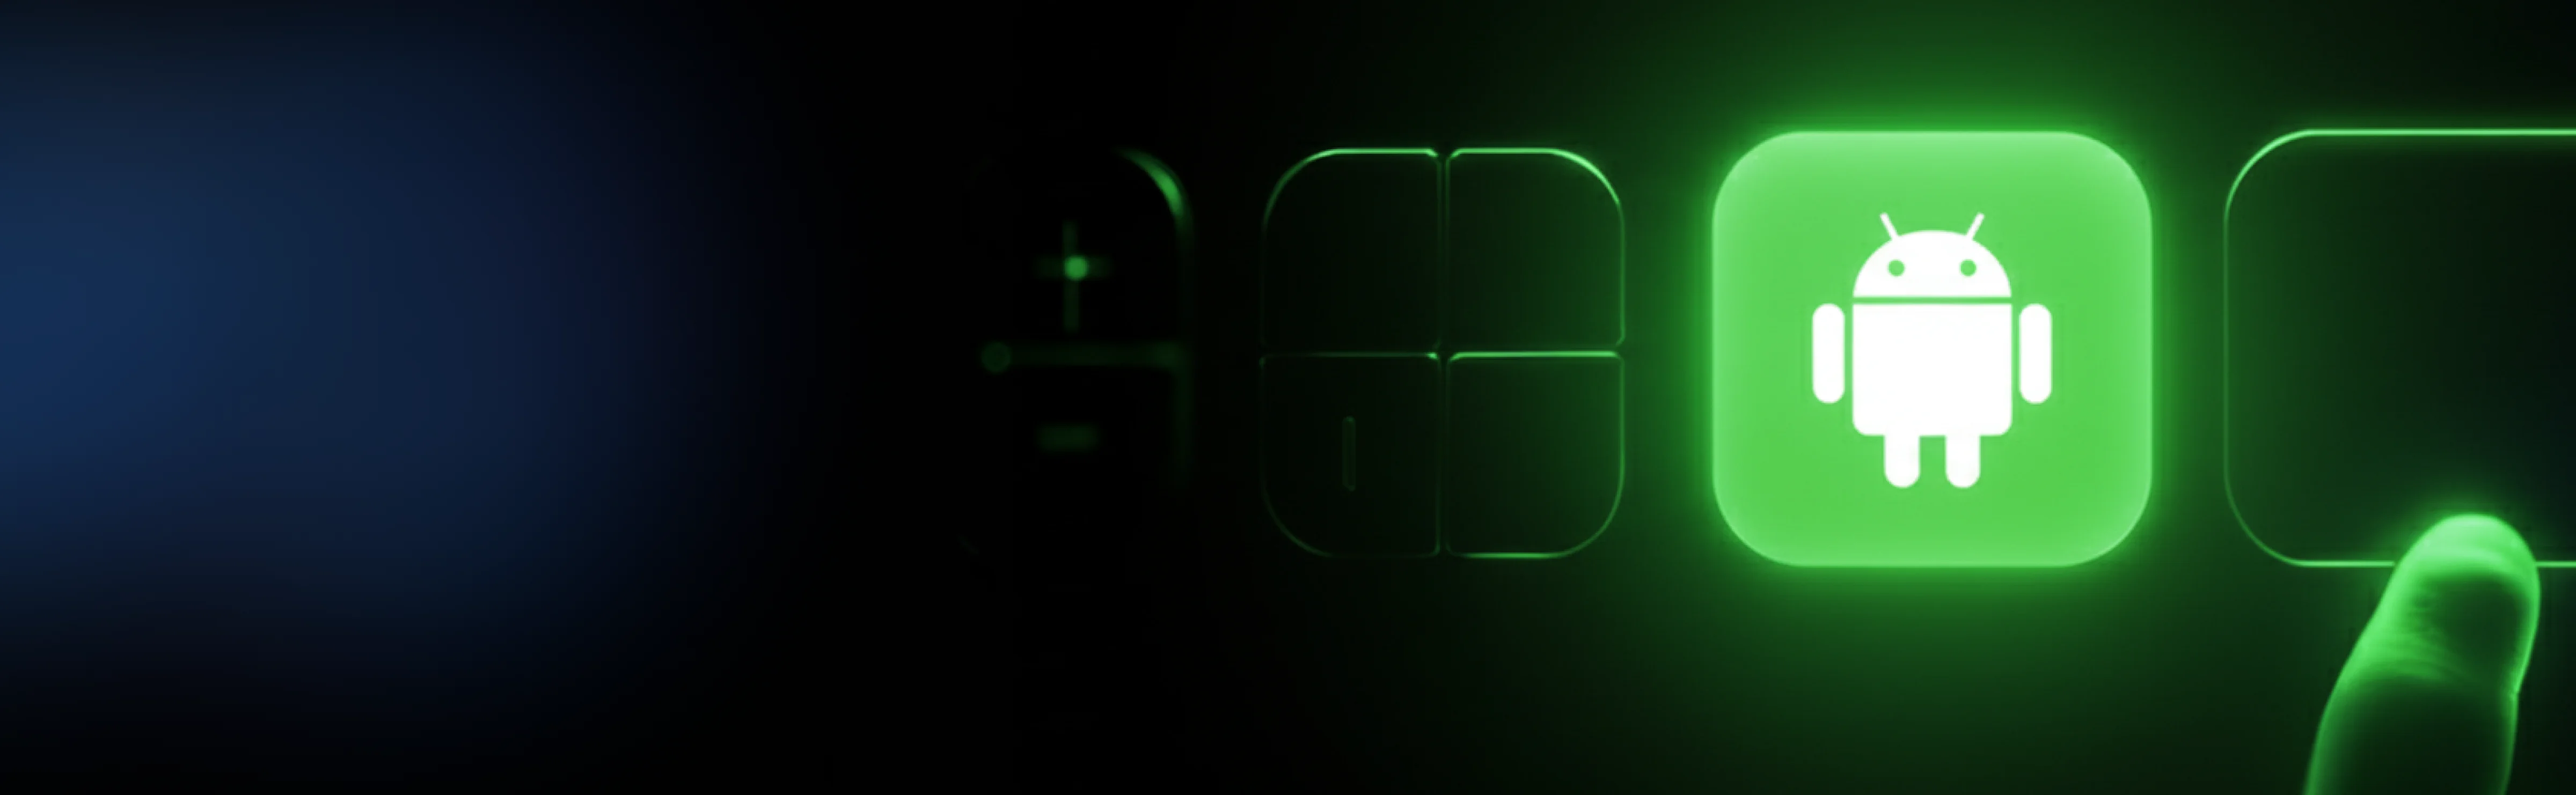
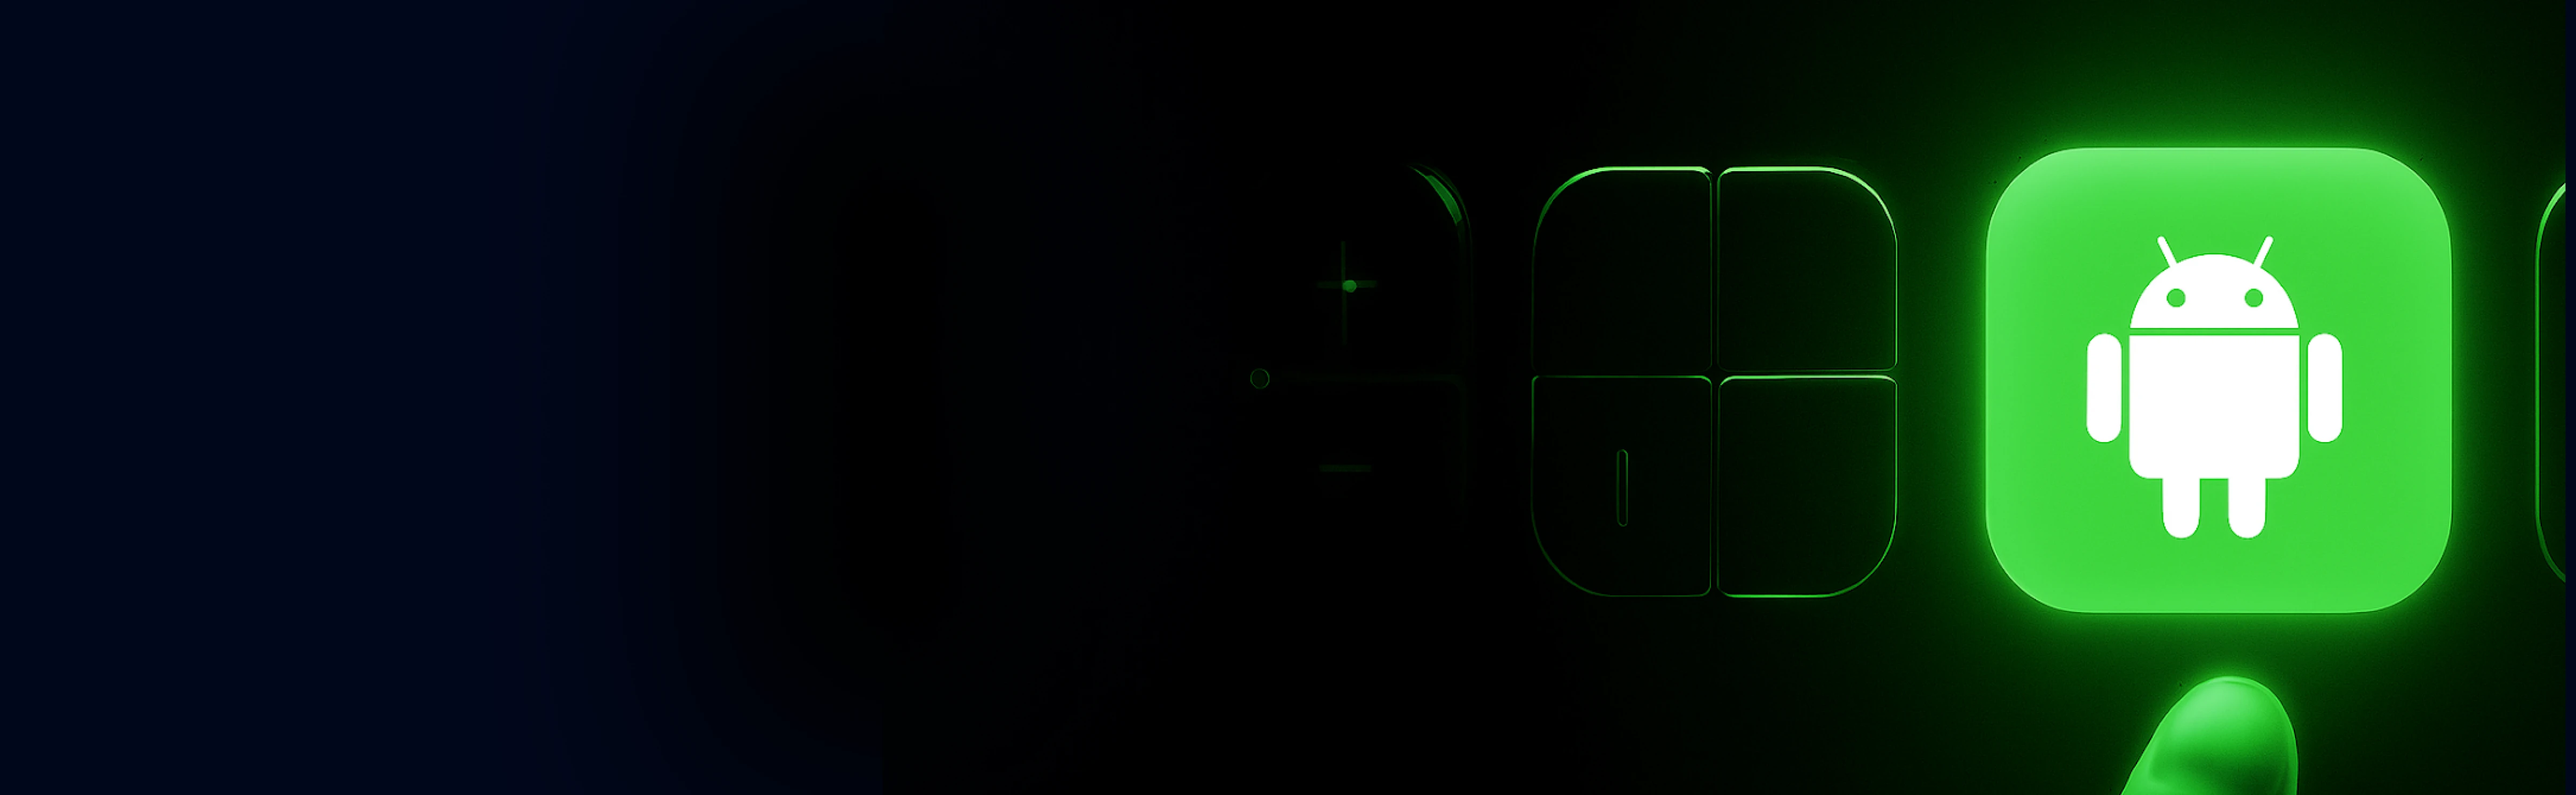
fixes

diff --git a/src/custom-android-app.html b/src/custom-android-app.html
@@ -1112,12 +1112,12 @@
         class="relative w-full xl:mt-[170px] z-50 recognition-section-ppc backdrop-blur-[10px]"
       >
         <div
-          class="container relative flex flex-col lg:flex-row items-center justify-between gap-2 lg:gap-8 px-6 md:px-12 py-5"
+          class=" relative flex flex-col lg:flex-row items-center justify-between gap-2 lg:gap-8 px-6 md:px-12 py-5"
         >
           <!-- Left text -->
-          <div class="lg:w-[40%] text-center lg:text-left">
+          <div class="lg:w-[40%] text-center lg:text-left px-5">
             <p
-              class="text-white text-base text-[16px] md:text-[18px] leading-snug"
+              class="text-white text-base text-[16px] md:text-[18px] leading-relaxed"
             >
               Recognized for delivering the best solutions for businesses of all
               sizes and across industries.
@@ -1248,14 +1248,14 @@
             href="#"
             class="border-[1px] border-[#f5fafec8] rounded-full px-6 py-3 text-[18px] font-medium text-[#F5FAFE] hover:bg-white/10 transition inline-flex items-center"
           >
-            <span class="truncate max-w-[200px] sm:max-w-none">Explore Our Android Development Services</span>
+            <span class="truncate max-w-[280px] sm:max-w-none">Explore Our Android Development Services</span>
           </a>
         </div>
       </div>
     </section>
 
     <!-- 🟦 SECTION 2: Comprehensive Golang Development Services -->
-    <section class="text-white lg:pt-20 text-center px-4">
+    <section class="text-white lg:pt-20 text-center px-4  ">
       <div class="container mx-auto max-w-4xl">
         <h2
           class="text-3xl md:text-4xl xl:text-[50px] font-[400] mb-6 xl:leading-[60px] w-[90%] mx-auto"
@@ -1292,7 +1292,7 @@
       </div>
 
       <section class="text-white py-20 hidden lg:block">
-        <div class="mx-auto px-4 flex flex-col lg:flex-row gap-10">
+        <div class="mx-auto  flex flex-col lg:flex-row gap-10">
           <!-- LEFT SIDE: Scrollable Category List -->
           <div class="lg:w-1/2 bg-[#121314]">
             <div
@@ -2389,10 +2389,10 @@
       </section>
     </div>
     <!-- 🟦 SECTION 2: Why Choose NewAgeSysIT -->
-    <section class="relative text-white overflow-hidden border-new-golang">
+    <section class="relative text-white overflow-hidden border-new-golang min-h-[450px]">
       <div class="absolute right-0 top-0 hidden w-full h-full lg:block">
         <img
-          src="./img/cta-android-web.png"
+          src="./img/cta-android-web.webp"
           alt="bg"
           class="h-full w-full object-cover"
         />
@@ -2404,7 +2404,7 @@
         <!-- Left Text -->
         <div class="lg:w-1/2 text-center lg:text-left">
           <h2
-            class="text-[28px] md:text-[36px] xl:text-[50px] font-[400] mb-5 text-white mx-auto leading-[60px]"
+            class="text-[28px] md:text-[36px] xl:text-[50px] font-[400] mb-5 text-white mx-auto leading-relaxed xl:leading-[60px]"
           >
             Why Choose NewAgeSysIT <br />
             for your Android Development?
@@ -3481,16 +3481,20 @@
           >
             Tools and Technologies Used by Our Android Developers
           </h2>
-
+  <p class="text-[#8C8C8C] text-[23px] leading-relaxed text-center mx-auto py-5 max-w-3xl">
+                  With Go’s high functionality, our Go developers build stunning
+                  social media and social networking applications with superior
+                  usability.
+                </p>
           <!-- Default (Collapsed) State -->
           <div
             id="collapsedState"
-            class="transition-all duration-500 ease-in-out"
+            class="transition-all duration-500 ease-in-out mt-3"
           >
             <img
               src="./img/tech-sec-android.webp"
               alt="Tools Icons"
-              class="w-full lg:w-[60%] mx-auto"
+              class="w-full lg:w-[80%] mx-auto"
             />
             <button
               id="toggleBtn"
@@ -3541,7 +3545,7 @@
                   <!-- Dart -->
                   <div class="text-center">
                     <img
-                      src="./img/dart-thumb.svg"
+                      src="./img/dartt.svg"
                       alt="Dart"
                       class="w-20 h-20 mx-auto"
                     />
@@ -3563,7 +3567,7 @@
               <div
                 class="border border-white/40 rounded-[30px] px-10 py-10 w-full max-w-2xl mx-auto"
               >
-                <div class="flex flex-wrap justify-center gap-10">
+                <div class="flex flex-wrap justify-center gap-10 md:gap-20">
                   <div class="text-center">
                     <img
                       src="./img/js-thumb.svg"
@@ -3638,13 +3642,13 @@
               </div>
 
               <!-- Row 3: Bottom three categories -->
-              <div class="flex flex-wrap justify-center gap-8 w-full max-w-6xl">
+              <div class="flex flex-wrap justify-center gap-12 w-full max-w-6xl">
                 <!-- UI/UX / Design Tools -->
                 <div
                   class="relative border border-white/60 rounded-[30px] px-10 py-16 flex-1 min-w-[280px] max-w-sm"
                 >
                   <p
-                    class="absolute -top-5 left-1/2 -translate-x-1/2 py-3 bg-[#1E1E1E] px-5 py-1 rounded-[30px] text-sm md:text-md font-medium"
+                    class="absolute -top-5 left-1/2 -translate-x-1/2 py-3 bg-[#1E1E1E] px-5  rounded-[30px] text-sm md:text-md font-medium"
                   >
                     UI/UX / Design Tools
                   </p>
@@ -3691,7 +3695,7 @@
 
                 <!-- Testing / Quality Assurance Tools -->
                 <div
-                  class="relative border border-white/60 rounded-[30px] px-10 py-16 flex-1 min-w-[280px] max-w-sm"
+                  class="relative border border-white/60 rounded-[30px] px-10 py-16 flex-1 min-w-[280px] max-w-sm "
                 >
                   <p
                     class="absolute -top-5 left-1/2 -translate-x-1/2 bg-[#1E1E1E] px-5 py-1 rounded-[30px] text-sm md:text-md font-medium"

diff --git a/src/style.css b/src/style.css
@@ -2560,6 +2560,10 @@ video {
   min-height: 400px;
 }
 
+.min-h-\[450px\] {
+  min-height: 450px;
+}
+
 .min-h-\[45px\] {
   min-height: 45px;
 }
@@ -16724,10 +16728,6 @@ footer ul li {
 
   .sm\:block {
     display: block;
-  }
-
-  .sm\:inline-block {
-    display: inline-block;
   }
 
   .sm\:inline {
